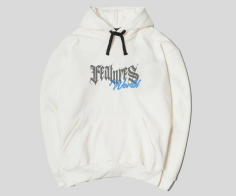
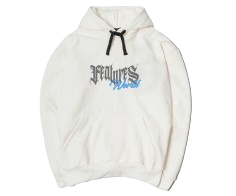
Atualizando as imagens e centralizando seção4

diff --git a/src/pages/vitrine/index.js b/src/pages/vitrine/index.js
@@ -7,15 +7,15 @@ import { Link } from 'react-router-dom'
 import image1 from './teste2.png'
 import image2 from './black-tee.png'
 import image3 from './black-tee-featworld.png';
-import image4 from './hoodie-wolf2.jpg';
+import image4 from './hoodie-wolf.png';
 import image5 from './hoodie-white.png';
 import image6 from './white-pants.png';
-import image7 from './blacktee.jpg';
-import image8 from './hoodie-wolf-frente.jpg';
-import image9 from './tee-e.jpg';
-import image10 from './teebalck.jpg';
-import image11 from './short.jpg';
-import image12 from './newtee.jpg';
+import image7 from './black-tee.png';
+import image8 from './hoodie-wolf-frente.png';
+import image9 from './tee-e.png';
+import image10 from './teebalck.png';
+import image11 from './short.png';
+import image12 from './newtee.png';
 
 export default function Vitrine () {
   return (
@@ -56,8 +56,6 @@ export default function Vitrine () {
           <Box imagem = {image10}/>
           <Box imagem = {image11}/>
           <Box imagem = {image12}/>
-          
-
         </div>
         
       </section>

diff --git a/src/pages/vitrine/index.scss b/src/pages/vitrine/index.scss
@@ -47,8 +47,8 @@
     display: flex;
     flex-direction: row;
     flex-wrap: wrap;
-    margin: 30px 190px;
-    gap: 50px;
+    margin: 30px 280px;
+    gap: 70px;
 }
 
 .secao4 {
